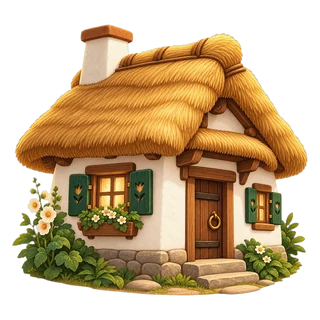
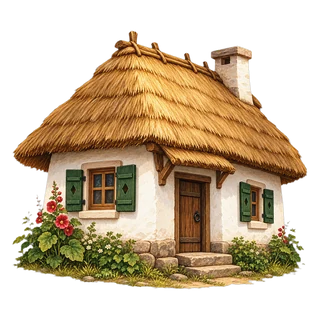
Консоль: мініатюри мальовані замість 3D (усі 23)
Дослідник замінив глянцевий 3D-набір мальованим (акварель і гуаш).
Нова мініатюра lysty (листи з пером) - на картках Експорту.

Claude-Session: https://claude.ai/code/session_01Agw5Q9UQGu2RrJBTZ1jdwm

diff --git a/src/nyshporka/daemon/static/core/view.js b/src/nyshporka/daemon/static/core/view.js
@@ -319,6 +319,8 @@ function maskot(pose, width = 150, cls = '') {
 /**
  * 🎒 Мініатюри речей маскота — мальовані в його манері (сумка, лупа, перо,
  * в'язка справ, печатка, скриня…), квадрат 320 px з прозорим тлом.
+ * 🔴 Мальовані, а не 3D-рендер: глянцевий перший набір дослідник замінив
+ * (23.10.2026, «Я не хочу 3Д»).
  *
  * Стоять там, де є місце й де без них були б «сухі букви»: картки «Головного»
  * на Огляді, показники роду, порожні стани. 🔴 Порожній стан — це СТАН
@@ -330,9 +332,9 @@ const MINI = ['sumka', 'lupa', 'pero', 'viazka', 'teka', 'derevo', 'pechatka', '
   'hodynnyk', 'shukhliada', 'zshyvok', 'skrynia',
   // друга дюжина (23.10.2026): повітряна куля — Хмара, лоток — Черга, книга —
   // прочитане, коробка — каталоги й описи, сито — розбір, ключ — налаштування,
-  // картки — канон і Супряга, хата — сайт родини, сувій — звіти й експорт,
-  // колба — Лабораторія.
-  'povitrulia', 'lotok', 'knyha', 'arkhiv', 'syto', 'kliuch', 'kartky', 'hata', 'sviy', 'kolba'];
+  // картки — канон і Супряга, хата — сайт родини, сувій — звіти, листи з пером —
+  // експорт, колба — Лабораторія.
+  'povitrulia', 'lotok', 'knyha', 'arkhiv', 'syto', 'kliuch', 'kartky', 'hata', 'sviy', 'lysty', 'kolba'];
 
 function mini(name, size = 48, cls = '') {
   if (!MINI.includes(name)) return '';

diff --git a/src/nyshporka/daemon/static/screens/export.js b/src/nyshporka/daemon/static/screens/export.js
@@ -50,7 +50,7 @@ async function exportPicks(gen) {
   box.innerHTML = `<h3 class="sub-h">${t('export.picks')}</h3><div class="read-picks">${cases.map((c) => {
     const it = caseItem(c);
     return `<button class="card" data-act="export.pick" data-arg="${esc(c.shifra || c.key)}">
-      ${mini('sviy', 40)}<span><b>${esc(c.shifra || c.key || '')}</b>
+      ${mini('lysty', 40)}<span><b>${esc(c.shifra || c.key || '')}</b>
       <small>${esc(c.title || '')}</small><small class="muted">${esc(it.hint)}</small></span></button>`;
   }).join('')}</div>`;
 }

diff --git a/tests/test_front_compose.py b/tests/test_front_compose.py
@@ -381,4 +381,4 @@ def test_every_miniature_named_in_code_has_its_file() -> None:
     block = src[src.index("const MINI = ["):src.index("];", src.index("const MINI = ["))]
     names = set(re.findall(r"'([a-z]+)'", block))
     files = {p.stem.removeprefix("mini-") for p in (SHARED_DIR / "img").glob("mini-*.webp")}
-    assert names == files and len(names) == 22, (names ^ files, len(names))
+    assert names == files and len(names) == 23, (names ^ files, len(names))

diff --git a/CHANGELOG.md b/CHANGELOG.md
@@ -297,6 +297,8 @@
     екран більше не блокує переходу й «Назад».
 - Тест: кожна дія консолі, що пише, повідомляє, чим скінчилось (тост,
   помилка, робота чи вікно); на 139 обробниках мовчазних немає.
+- Мініатюри маскота — мальовані (акварель і гуаш, фактура паперу) замість
+  глянцевого 3D-рендеру, усі 23; нова — листи з пером на картках Експорту.
 - **Ще 10 мініатюр маскота** (разом 22): повітряна куля — Хмара, лоток —
   Черга, книга — Прогони й «Нещодавно прочитане», коробка — Каталоги й Описи
   фондів, сито — Розбір кандидатів, ключ — Налаштування, картки — Канон і Мої
